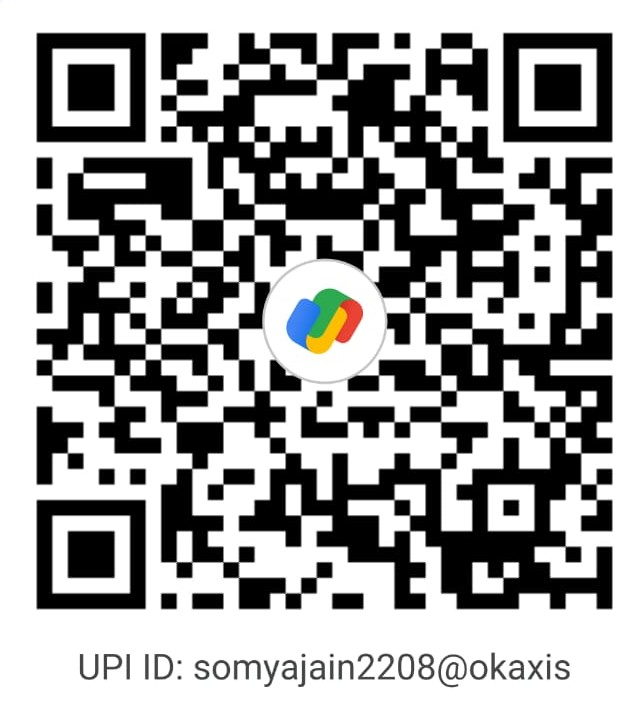
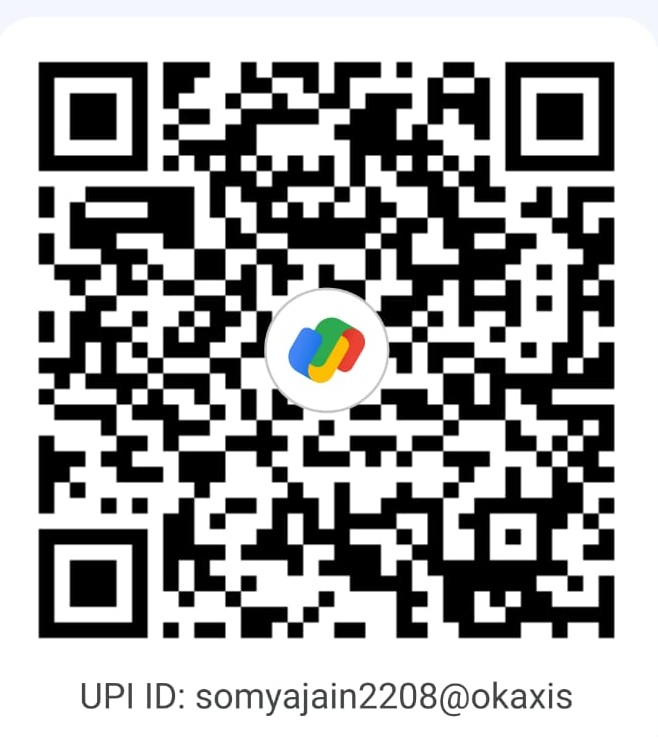
99 call book updated

diff --git a/index.html b/index.html
@@ -122,89 +122,143 @@ FILE: index.html (Redesigned)
     </div>
   </section>
 
-    <!-- ✅ NEW: ₹99 Software Dropshipping Strategy Call -->
-  <section class="coach" id="strategy-call">
-    <div class="container">
-      <div class="coach-head">
-        <span class="coach-pill">
-          <i class="fa-solid fa-bolt"></i>
-          New: 1-on-1 Software Dropshipping Coaching
-        </span>
-        <h2>Start Software Dropshipping in 2025 with a Personal Strategy Call – Only ₹99</h2>
-        <p class="muted">
-          Learn the exact method I used to generate <strong>₹3,00,000+ in 5 months</strong>
-          with software dropshipping. No inventory, no shipping – just pure digital products.
-        </p>
-      </div>
+  <!-- ✅ NEW: ₹99 Software Dropshipping Strategy Call -->
+<section class="coach" id="strategy-call">
+  <div class="container">
+    <div class="coach-head">
+      <span class="coach-pill">
+        <i class="fa-solid fa-bolt"></i>
+        New: 1-on-1 Software Dropshipping Coaching
+      </span>
+      <h2>Start Software Dropshipping in 2025 with a Personal Strategy Call – Only ₹99</h2>
+      <p class="muted">
+        Learn the exact system I used to generate <strong>₹3,00,000+ in 5 months</strong>
+        through software dropshipping. No inventory, no shipping, no investment – just pure digital products.
+      </p>
+    </div>
 
-      <div class="coach-grid">
-        <!-- Left -->
-        <div class="coach-card">
-          <h3>What you’ll get in the ₹99 Call</h3>
-          <ul>
-            <li>✅ 15–20 min <strong>1-on-1 video / audio call</strong></li>
-            <li>✅ Full explanation of the <strong>software dropshipping model</strong></li>
-            <li>✅ Personalised roadmap to earn your first <strong>₹10,000–₹50,000</strong></li>
-            <li>✅ Which softwares to sell & how to price them in Indian market</li>
-            <li>✅ Basic ads + reels + DM strategy for getting clients</li>
-            <li>✅ Q&A – ask anything about my setup, tools & methods</li>
-          </ul>
+    <div class="coach-grid">
+      <!-- Left -->
+      <div class="coach-card">
+        <h3>What You Will Get in the ₹99 Call</h3>
+        <ul>
+          <li>✅ A <strong>15–20 minute 1-on-1</strong> audio/video call</li>
+          <li>✅ Complete explanation of the <strong>software dropshipping business model</strong></li>
+          <li>✅ Your personalised roadmap to earn your first <strong>₹10,000–₹50,000</strong></li>
+          <li>✅ What software tools to sell + perfect pricing for the Indian market</li>
+          <li>✅ Basics of ads, reels, and DM strategies to get clients</li>
+          <li>✅ Q&A session – ask anything about tools, methods, or systems I personally use</li>
+        </ul>
 
-          <div class="coach-note">
-            <p>Ye call <strong>webinar nahi</strong> hai – ye bilkul personal guidance hai jaha hum sirf
-              aapke goals ke hisaab se plan banayenge.</p>
-          </div>
-
-          <div class="coach-cta">
-            <div class="coach-price">
-              <span class="old">₹999</span>
-              <span class="new">₹99</span>
-              <span class="tagline">Introductory offer – limited slots per day</span>
-            </div>
-            <a class="btn-primary" href="order.html?plan=Call-1On1-99">
-              Book Your 1-on-1 Call (₹99)
-            </a>
-            <p class="muted tiny-text">
-              After payment, you’ll receive a form + WhatsApp/Telegram instructions to schedule your call.
-            </p>
-          </div>
+        <div class="coach-note">
+          <p>
+            This is <strong>not a webinar</strong>. This is completely personalised guidance
+            where we build a plan based on <strong>your goals</strong>.
+          </p>
         </div>
 
-        <!-- Right -->
-        <div class="coach-side">
-          <div class="coach-box">
-            <h4>Who is this for?</h4>
-            <ul>
-              <li>• Students & job seekers</li>
-              <li>• Freelancers & agency owners</li>
-              <li>• Side-income seekers</li>
-              <li>• Anyone who wants a simple online business</li>
-            </ul>
+        <div class="coach-cta">
+          <div class="coach-price">
+            <span class="old">₹999</span>
+            <span class="new">₹99</span>
+            <span class="tagline">Introductory offer – limited slots per day</span>
           </div>
+          <a class="btn-primary" href="order.html?plan=Call-1On1-99">
+            Book Your 1-on-1 Call (₹99)
+          </a>
+          <p class="muted tiny-text">
+            After payment, you’ll receive a form + Telegram/WhatsApp instructions to schedule your call.
+          </p>
+        </div>
+      </div>
 
-          <div class="coach-box">
-            <h4>Why only ₹99?</h4>
-            <p class="muted">
-              Simple – free calls me timepass hota hai. ₹99 filter karta hai sirf serious logo ko
-              jinko genuinely online income start karni hai. Aap serious ho, main full value dunga. 🔥
-            </p>
-          </div>
+      <!-- Right -->
+      <div class="coach-side">
+        <div class="coach-box">
+          <h4>Who Is This For?</h4>
+          <ul>
+            <li>• Students & job seekers</li>
+            <li>• Freelancers & agency owners</li>
+            <li>• Side-income seekers</li>
+            <li>• Anyone who wants a beginner-friendly online business</li>
+          </ul>
+        </div>
 
-          <div class="coach-box">
-            <h4>What happens after booking?</h4>
-            <ol>
-              <li>1⃣ Click “Book Your 1-on-1 Call (₹99)”</li>
-              <li>2⃣ Pay securely via UPI</li>
-              <li>3⃣ Fill the small details form</li>
-              <li>4⃣ You’ll get time slot + contact on Telegram/WhatsApp</li>
-              <li>5⃣ We do the call & set your roadmap</li>
-            </ol>
-          </div>
+        <div class="coach-box">
+          <h4>Why Only ₹99?</h4>
+          <p class="muted">
+            Simple – free calls attract unserious people. ₹99 ensures that only
+            <strong>genuinely serious learners</strong> join the call.
+            If you are serious, I will give you full value. 🔥
+          </p>
+        </div>
+
+        <div class="coach-box">
+          <h4>What Happens After Booking?</h4>
+          <ol>
+            <li>1⃣ Click “Book Your 1-on-1 Call (₹99)”</li>
+            <li>2⃣ Make the payment via UPI</li>
+            <li>3⃣ Fill the details form</li>
+            <li>4⃣ You will receive the contact + time slot</li>
+            <li>5⃣ We do the call and set your personalised roadmap</li>
+          </ol>
         </div>
       </div>
     </div>
-  </section>
-  <!-- ✅ END Strategy Call Section -->
+  </div>
+</section>
+<!-- ✅ END Strategy Call Section -->
+
+<!-- ✅ NEW: FAQ for Strategy Call -->
+<section class="coach-faq">
+  <div class="container narrow">
+    <h2>₹99 Strategy Call – Common Questions</h2>
+    <div class="accordion">
+      <details>
+        <summary>Will the call be on video or audio?</summary>
+        <p>
+          Whatever you prefer. We can do the call on <strong>WhatsApp, Telegram, or Google Meet</strong> –
+          audio or video as per your comfort.
+        </p>
+      </details>
+
+      <details>
+        <summary>How long will the call be?</summary>
+        <p>
+          The call usually lasts <strong>15–20 minutes</strong>, but if you have valid questions,
+          it can extend slightly.
+        </p>
+      </details>
+
+      <details>
+        <summary>What will I get after the call?</summary>
+        <p>
+          You will receive a <strong>personal roadmap</strong>, basic tools list, earning strategy,
+          and <strong>24-hour chat support</strong> to help you start immediately.
+        </p>
+      </details>
+
+      <details>
+        <summary>Will you sell a course after the call?</summary>
+        <p>
+          The call is mainly for <strong>clarity and direction</strong>.  
+          Only if you feel you want the complete system, I may share my course or tool bundles —
+          but it is <strong>never forced</strong>.
+        </p>
+      </details>
+
+      <details>
+        <summary>Is there a refund if I can’t attend?</summary>
+        <p>
+          Normally, <strong>no refunds</strong>.  
+          But if you inform me in advance, we will <strong>reschedule your slot</strong>.
+        </p>
+      </details>
+    </div>
+  </div>
+</section>
+
+
 
 
   <!-- Category Tabs / Plans -->
@@ -689,6 +743,49 @@ FILE: index.html (Redesigned)
     </div>
   </section>
 
+  <!-- ✅ NEW: About the Coach -->
+  <section class="coach-about">
+    <div class="container narrow">
+      <h2>About Your Coach</h2>
+      <div class="coach-about-wrap">
+        <div class="coach-about-text">
+          <p>
+            Hi! 👋 My name is <strong>Soumya Jain</strong>, and I’m an active
+            practitioner of <strong>software dropshipping</strong>. Over the last
+            <strong>5 months</strong>, I’ve generated more than
+            <strong>₹3,00,000 in revenue</strong> using this exact business model —
+            including <strong>₹1,00,000+</strong> in just the last month.
+          </p>
+          <p>
+            I don’t teach theory. I teach the exact systems, methods, and processes
+            I personally use in my business — including tools, pricing strategies,
+            client acquisition, ads, and delivery systems.
+          </p>
+          <p class="muted">
+            My goal is simple: to help <strong>students, freelancers, and
+              beginners</strong> start a profitable online income with a business
+            model that requires almost zero investment and has massive earning
+            potential.
+          </p>
+        </div>
+
+        <div class="coach-about-card">
+          <h3>Quick Stats</h3>
+          <ul>
+            <li>💰 ₹3,00,000+ revenue in 5 months</li>
+            <li>🧠 Experience with 50+ software tools</li>
+            <li>🎓 Helped 1000+ customers with premium tools</li>
+            <li>📍 India-based strategies designed for the Indian market</li>
+          </ul>
+          <a href="#strategy-call" class="btn-primary wfull" style="margin-top:10px;">
+            Start with the ₹99 Call
+          </a>
+        </div>
+      </div>
+    </div>
+  </section>
+
+
   <!-- Testimonials -->
   <section class="testimonials">
     <div class="container">
@@ -761,6 +858,10 @@ FILE: index.html (Redesigned)
         <a href="https://instagram.com/sabka_premium" target="_blank"><i class="fa-brands fa-instagram"></i>
           Instagram</a>
         <a href="mailto:sabkapremium01@gmail.com"><i class="fa-solid fa-envelope"></i> Email</a>
+        <a href="https://t.me/Somya2208?text=Hi%2C%20I%20want%20to%20book%20the%20%E2%82%B999%20software%20dropshipping%20strategy%20call."
+          target="_blank">
+          💬 Book ₹99 Strategy Call
+        </a>
       </div>
     </div>
   </section>

diff --git a/order.html b/order.html
@@ -155,7 +155,7 @@
       document.getElementById("amountInput").value = "₹" + planMap[planCode].amount;
 
       // Generate QR from UPI deeplink
-      const upiId = "somya2208jain2208@okaxis";
+      const upiId = "somyajain2208@okaxis";
       const name = "Soumya Jain";
       const amount = planMap[planCode].amount;
       const data = `upi://pay?pa=${upiId}&pn=${encodeURIComponent(name)}&am=${amount}&cu=INR`;
@@ -218,6 +218,18 @@
         reader.onerror = (err) => reject(err);
       });
     }
+
+        // ✅ Track Lead event for Strategy Call
+    try {
+      const urlParams2 = new URLSearchParams(window.location.search);
+      const planFromUrl = urlParams2.get("plan");
+      if (planFromUrl === "Call-1On1-99" && typeof fbq === "function") {
+        fbq("track", "Lead", { content_name: "1-on-1 Strategy Call ₹99" });
+      }
+    } catch (e) {
+      console.log("Pixel Lead tracking error:", e);
+    }
+
   </script>
 </body>
 

diff --git a/styles.css b/styles.css
@@ -461,3 +461,40 @@ input:focus{border-color:var(--e2);box-shadow:0 0 0 6px rgba(20,184,166,.12)}
     grid-template-columns:1fr;
   }
 }
+
+/* About Coach */
+.coach-about{
+  padding:40px 0;
+  border-top:1px dashed rgba(20,184,166,.35);
+}
+.coach-about-wrap{
+  display:grid;
+  grid-template-columns: minmax(0,1.4fr) minmax(0,.8fr);
+  gap:20px;
+  align-items:flex-start;
+}
+.coach-about-text p{
+  margin-bottom:10px;
+  color:var(--muted);
+}
+.coach-about-card{
+  background:#0f1d1a;
+  border-radius:14px;
+  border:1px solid rgba(255,255,255,.06);
+  padding:14px 16px;
+}
+.coach-about-card h3{
+  margin-bottom:8px;
+}
+.coach-about-card ul{
+  margin-left:16px;
+  color:var(--muted);
+  font-size:14px;
+  line-height:1.6;
+}
+
+@media (max-width: 900px){
+  .coach-about-wrap{
+    grid-template-columns:1fr;
+  }
+}
